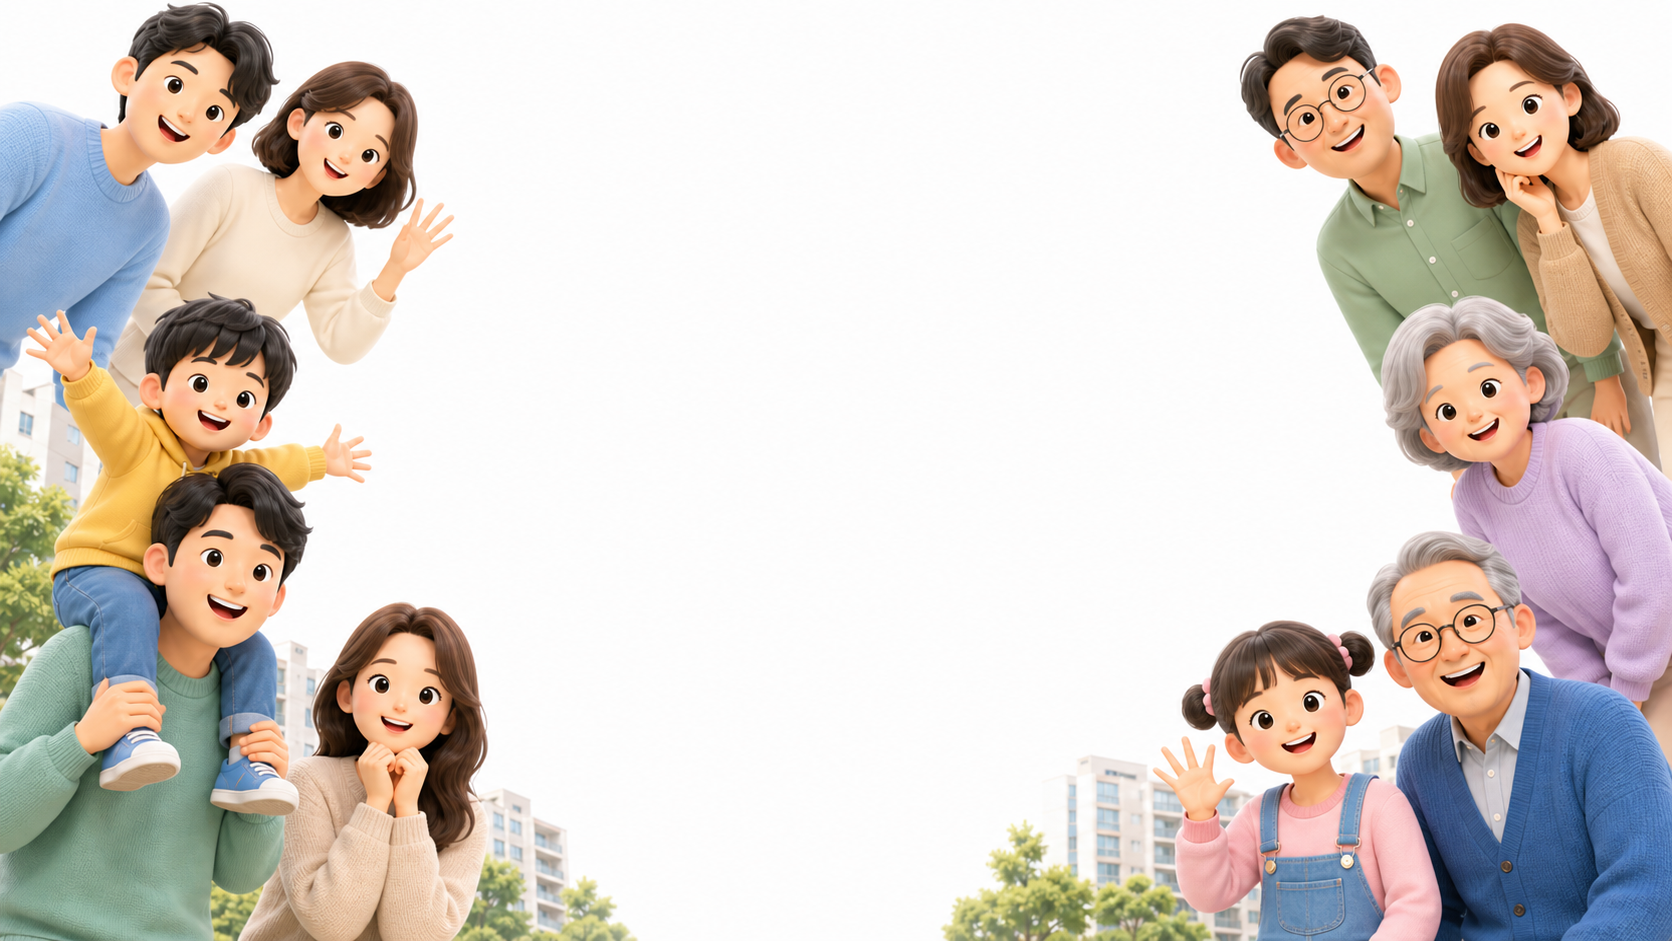
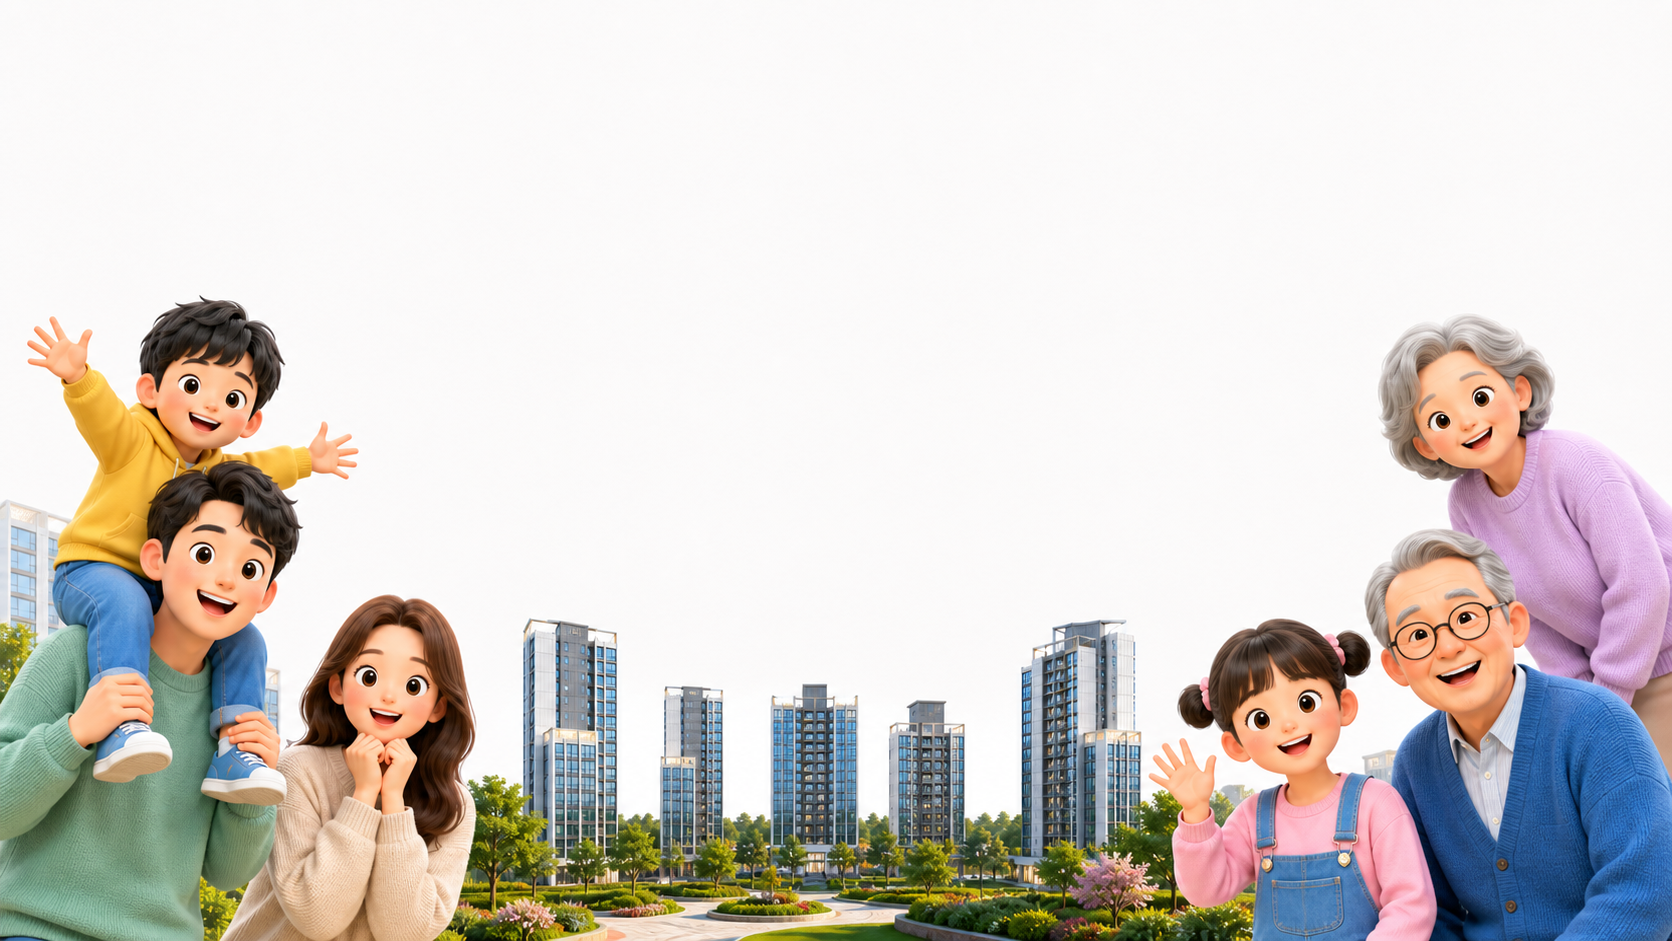
feat: refine landing hero presentation

diff --git a/src/components/landing/hero-section.tsx b/src/components/landing/hero-section.tsx
@@ -1,13 +1,12 @@
 import Image from "next/image";
 import Link from "next/link";
-import { Rocket, Sparkles } from "lucide-react";
 import { Button } from "@/components/ui/button";
 import { heroContent } from "@/content/landing";
 
 export function HeroSection() {
   return (
-    <section className="relative isolate overflow-hidden pb-16 pt-8 sm:pb-24">
-      <div className="site-container relative min-h-[610px] overflow-hidden rounded-[2rem] bg-white sm:min-h-[720px]">
+    <section className="relative isolate overflow-hidden pb-16 pt-6 sm:pb-20">
+      <div className="site-container relative min-h-[580px] overflow-hidden rounded-[2rem] bg-white sm:min-h-[640px]">
         <Image
           src="/assets/hero/community-hero-04.png"
           alt=""
@@ -16,23 +15,17 @@ export function HeroSection() {
           className="object-cover object-center"
           sizes="(max-width: 768px) 100vw, 1200px"
         />
-        <Rocket
-          aria-hidden="true"
-          className="float-soft absolute left-[18%] top-20 hidden size-8 text-ember-orange sm:block"
-        />
-        <Sparkles
-          aria-hidden="true"
-          className="sparkle absolute right-[22%] top-28 hidden size-7 text-sunburst-yellow sm:block"
-        />
         <div className="absolute inset-0 flex items-center justify-center px-5">
-          <div className="mt-6 flex max-w-[590px] flex-col items-center text-center">
+          <div className="flex max-w-[920px] -translate-y-4 flex-col items-center text-center sm:-translate-y-7">
             <p className="mb-5 rounded-full bg-parchment-card px-4 py-2 text-sm font-medium text-ember-orange">
               {heroContent.badge}
             </p>
-            <h1 className="text-[clamp(2.55rem,5.2vw,4.25rem)] leading-[1.1]">
-              {heroContent.title[0]}
-              <br />
-              {heroContent.title[1]}
+            <h1 className="text-[clamp(2.45rem,4.8vw,4rem)] leading-[1.12]">
+              {heroContent.title.map((line) => (
+                <span key={line} data-hero-line className="block sm:whitespace-nowrap">
+                  {line}
+                </span>
+              ))}
             </h1>
             <p className="mt-6 max-w-[490px] text-[16px] leading-7 text-graphite sm:text-[17px]">
               {heroContent.description}

diff --git a/src/__tests__/landing-page.test.tsx b/src/__tests__/landing-page.test.tsx
@@ -32,6 +32,25 @@ describe("public landing page", () => {
     ).toBeInTheDocument();
   });
 
+  it("keeps the hero upper space clear of floating decorations", () => {
+    const { container } = render(<Home />);
+
+    expect(container.querySelector(".float-soft")).not.toBeInTheDocument();
+    expect(container.querySelector(".sparkle")).not.toBeInTheDocument();
+  });
+
+  it("renders the desktop hero headline as two intended lines", () => {
+    const { container } = render(<Home />);
+    const headlineLines = Array.from(container.querySelectorAll("[data-hero-line]")).map(
+      (line) => line.textContent,
+    );
+
+    expect(headlineLines).toEqual([
+      "함께 만드는 새로운 보금자리,",
+      "투명하게 소통하는 우리 조합",
+    ]);
+  });
+
   it("ships the validated transparent icon asset set", () => {
     const icons = [
       "business-info.png",